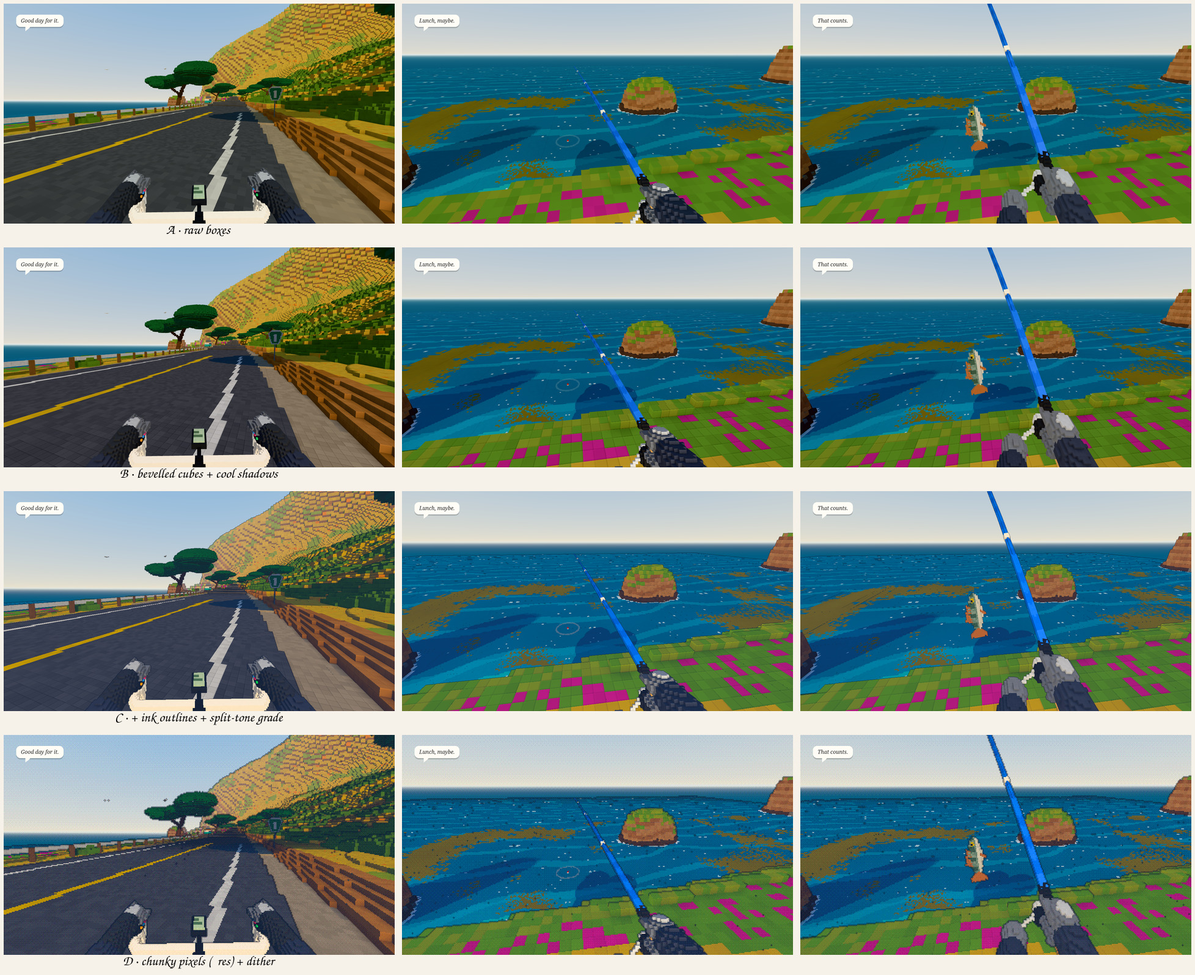
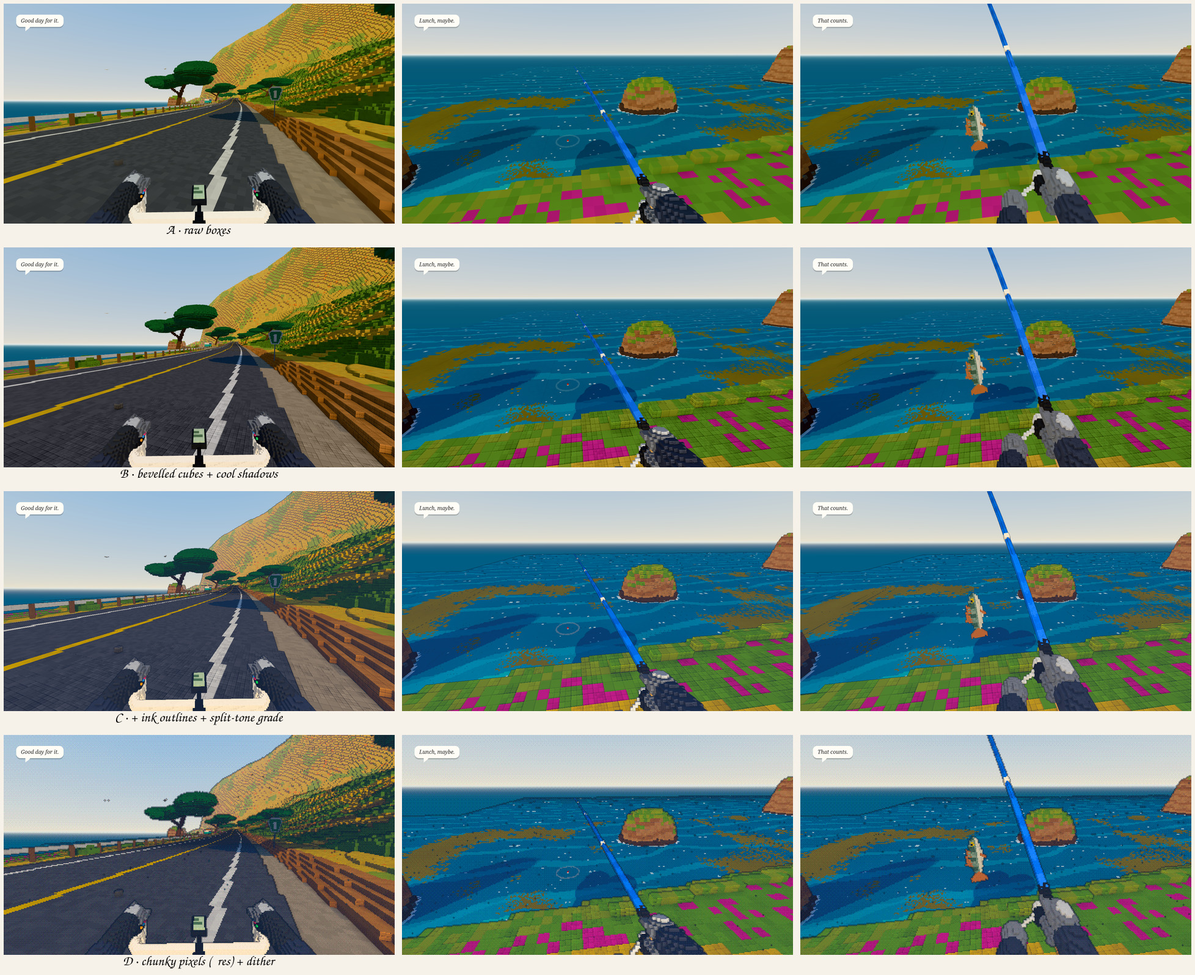
Seaside: mixed-size cubes and crumbly road steps
- Voxel shader: in patches, cubes render as 2x2 or 4x4 smaller bevelled
  cubes with their own brightness, at every LOD (fades out below ~3 px so
  it never shimmers). Breaks up the uniform grid and helps hide ring
  boundaries. ?detail=0..1 (on by default in every bevelled look).
- Road corridor: clumped noise in the height rounding so each 1/8 m step
  edge wanders a little instead of being a ruler-straight line.
- Cost is within noise headless (139 vs 141 ms at 720p).
- docs/seaside/looks: sheets re-rendered; detail-compare.png (off | on).

diff --git a/src/games/seaside/voxel/three.ts b/src/games/seaside/voxel/three.ts
@@ -31,22 +31,36 @@ export function buildGrid(grid: VoxelGrid, opts: MeshOpts, material: THREE.Mater
  * Global look switches shared by every voxel material (uniform objects, so a look can change at runtime with no rebuild).
  *   bevel: per-cube edge shading — faces read as individual blocks, even when greedy-merged (0..1)
  *   cool:  hue-shifted lighting — shadow/ambient light shifts cool, direct sun warm (0..1)
+ *   detail: mixed-size cubes — some cubes render as 2×2 or 4×4 smaller bevelled cubes (0..1), at every LOD
  */
-export const LOOK = { bevel: { value: 0 }, cool: { value: 0 } };
+const VOX_GLSL = `
+float vxHash(vec3 c) { return fract(sin(dot(c, vec3(12.9898, 78.233, 37.719))) * 43758.5453); }
+// bevel: within bw of a cube edge, tilt the shading toward that edge's outward direction (lit from above-left)
+float vxBevel(vec3 fr, vec3 n, float bw) {
+  vec3 ed = vec3(0.0);
+  for (int a = 0; a < 3; a++) {
+    if (abs(n[a]) > 0.5) continue;
+    ed[a] = fr[a] < bw ? -(1.0 - fr[a] / bw) : fr[a] > 1.0 - bw ? (1.0 - (1.0 - fr[a]) / bw) : 0.0;
+  }
+  return dot(ed, normalize(vec3(-0.35, 1.0, 0.3))) * 0.5 - length(ed) * 0.1;
+}
+`;
+
+export const LOOK = { bevel: { value: 0 }, cool: { value: 0 }, detail: { value: 0 } };
 
 /**
  * Lambert material with per-voxel brightness jitter computed in the fragment shader (hash of the voxel cell under the
  * fragment), so greedy-merged quads still read as individual cubes. Optional travelling swell for water, baked sun
  * visibility, and the LOOK bevel / cool-shadow switches. Cell maths runs in the mesh's local space (grid `origin`).
  */
-export function voxelMaterial(opts: { size: number; jitter: number; origin?: readonly number[]; /** screen-door dissolve: x = progress 0..1, y = +1 fading in / −1 fading out */ fade?: { value: THREE.Vector2 }; wave?: { time: { value: number }; amp: number }; /** geometry has a baked `sunVis` attribute scaling direct light */ baked?: boolean }): THREE.MeshLambertMaterial {
+export function voxelMaterial(opts: { size: number; jitter: number; origin?: readonly number[]; /** false = no mixed-size sub-cubes (water) */ detail?: boolean; /** screen-door dissolve: x = progress 0..1, y = +1 fading in / −1 fading out */ fade?: { value: THREE.Vector2 }; wave?: { time: { value: number }; amp: number }; /** geometry has a baked `sunVis` attribute scaling direct light */ baked?: boolean }): THREE.MeshLambertMaterial {
   const mat = new THREE.MeshLambertMaterial({ vertexColors: true });
   const o = opts.origin ?? [0, 0, 0];
   mat.onBeforeCompile = (sh) => {
     sh.uniforms.uVox = { value: opts.size };
     sh.uniforms.uJit = { value: opts.jitter };
     sh.uniforms.uOrigin = { value: new THREE.Vector3(o[0], o[1], o[2]) };
-    sh.uniforms.uBevel = LOOK.bevel; sh.uniforms.uCool = LOOK.cool;
+    sh.uniforms.uBevel = LOOK.bevel; sh.uniforms.uCool = LOOK.cool; sh.uniforms.uDetail = opts.detail === false || opts.wave ? { value: 0 } : LOOK.detail;
     if (opts.fade) sh.uniforms.uFade = opts.fade;
     if (opts.wave) sh.uniforms.uTime = opts.wave.time;
     sh.vertexShader = 'varying vec3 vVoxL;\nvarying vec3 vVoxN;\nvarying float vWave;\n' + (opts.wave ? 'uniform float uTime;\n' : '') + (opts.baked ? 'attribute float sunVis;\nvarying float vSunVis;\n' : '')
@@ -60,7 +74,7 @@ export function voxelMaterial(opts: { size: number; jitter: number; origin?: rea
     const lights = `#include <lights_fragment_end>${opts.baked ? '\n  reflectedLight.directDiffuse *= vSunVis;' : ''}
       reflectedLight.indirectDiffuse *= mix(vec3(1.0), vec3(0.74, 0.84, 1.22), uCool);
       reflectedLight.directDiffuse *= mix(vec3(1.0), vec3(1.08, 1.0, 0.88), uCool);`;
-    sh.fragmentShader = 'uniform float uVox;\nuniform float uJit;\nuniform vec3 uOrigin;\nuniform float uBevel;\nuniform float uCool;\nvarying vec3 vVoxL;\nvarying vec3 vVoxN;\nvarying float vWave;\n' + (opts.baked ? 'varying float vSunVis;\n' : '')
+    sh.fragmentShader = 'uniform float uVox;\nuniform float uJit;\nuniform vec3 uOrigin;\nuniform float uBevel;\nuniform float uCool;\nuniform float uDetail;\nvarying vec3 vVoxL;\nvarying vec3 vVoxN;\nvarying float vWave;\n' + VOX_GLSL + (opts.baked ? 'varying float vSunVis;\n' : '')
       + (opts.fade ? 'uniform vec2 uFade;\n' : '')
       + sh.fragmentShader.replace('#include <lights_fragment_end>', lights).replace('#include <clipping_planes_fragment>', opts.fade ? `#include <clipping_planes_fragment>
         { ivec2 q = ivec2(mod(floor(gl_FragCoord.xy), 4.0)); // 4×4 Bayer threshold
@@ -69,17 +83,22 @@ export function voxelMaterial(opts: { size: number; jitter: number; origin?: rea
           if (uFade.y > 0.0 ? b >= uFade.x : b < uFade.x) discard; }` : '#include <clipping_planes_fragment>').replace('#include <color_fragment>', `#include <color_fragment>
         vec3 gv = (vVoxL - uOrigin) / uVox;
         vec3 cell = floor(gv - vVoxN * 0.5);
-        float hj = fract(sin(dot(cell, vec3(12.9898, 78.233, 37.719))) * 43758.5453);
-        // bevel: within ~14% of a cube edge, tilt the shading toward that edge's outward direction (lit from above-left)
-        vec3 fr = gv - cell, ed = vec3(0.0);
-        const float BW = 0.14;
-        for (int a = 0; a < 3; a++) {
-          if (abs(vVoxN[a]) > 0.5) continue;
-          ed[a] = fr[a] < BW ? -(1.0 - fr[a] / BW) : fr[a] > 1.0 - BW ? (1.0 - (1.0 - fr[a]) / BW) : 0.0;
+        float hj = vxHash(cell);
+        float px = max(max(fwidth(gv.x), fwidth(gv.y)), fwidth(gv.z)); // voxels per pixel
+        float bev = vxBevel(gv - cell, vVoxN, 0.14) * (1.0 - smoothstep(0.08, 0.2, px));
+        // mixed-size cubes: in patches, a cube shows as 2×2 or 4×4 smaller bevelled cubes (fades when they'd be < ~3 px)
+        float sub = 0.0;
+        if (uDetail > 0.0) {
+          float pick = 0.6 * vxHash(floor(cell / 3.0) + 5.0) + 0.4 * vxHash(cell + 17.0);
+          float L = pick > 1.0 - 0.3 * uDetail ? 2.0 : pick > 1.0 - 0.7 * uDetail ? 1.0 : 0.0;
+          if (L > 0.0) {
+            float k = exp2(L);
+            vec3 gs = gv * k, sc = floor(gs - vVoxN * 0.5);
+            float vis = 1.0 - smoothstep(0.25, 0.5, px * k);
+            sub = (vxBevel(gs - sc, vVoxN, 0.22) * 1.3 + (vxHash(sc + 3.1) - 0.5) * 0.24) * vis;
+          }
         }
-        float px = max(max(fwidth(gv.x), fwidth(gv.y)), fwidth(gv.z)); // cube size on screen (voxels per pixel)
-        float bev = (dot(ed, normalize(vec3(-0.35, 1.0, 0.3))) * 0.5 - length(ed) * 0.1) * (1.0 - smoothstep(0.08, 0.2, px));
-        diffuseColor.rgb *= 1.0 + (hj * 2.0 - 1.0) * uJit + 0.09 * vWave + uBevel * bev;`);
+        diffuseColor.rgb *= 1.0 + (hj * 2.0 - 1.0) * uJit + 0.09 * vWave + uBevel * bev + uDetail * sub;`);
   };
   mat.customProgramCacheKey = () => `vox-${opts.size}-${opts.jitter}-${opts.wave ? 'w' : ''}-${opts.baked ? 'b' : ''}-${opts.fade ? 'f' : ''}`;
   return mat;

diff --git a/src/games/seaside/world/coast.ts b/src/games/seaside/world/coast.ts
@@ -2,7 +2,7 @@
 // Coordinates: metres, y up, the ride heads toward −z. Road y = 0 at z = 0.
 import { VoxelGrid } from '../voxel/grid';
 import { definePalette } from '../voxel/palette';
-import { fbm, hash2, smooth, clamp } from '../voxel/noise';
+import { fbm, hash2, noise2, smooth, clamp } from '../voxel/noise';
 
 export const COAST = definePalette({
   asphalt: 0x67686b, asphalt2: 0x646568, asphalt3: 0x6a6b6e, yellow: 0xf2c230, white: 0xf3f0e6,
@@ -154,7 +154,8 @@ export function fillTerrain(grid: VoxelGrid, reg: Region, skip: Region | null, o
       grid.set(x, seaY, z, c);
       continue;
     }
-    let top = yi(h);
+    // road steps: clumped noise in the rounding so each step edge wanders and crumbles a little instead of a ruler line
+    let top = (t === T.ROAD || t === T.GRAVEL) && opts.lines ? yi(h + (noise2(wx * 1.7, wz * 1.7, 41) - 0.5) * s * 0.55) : yi(h);
     const capped = cor?.mode === 'outside' && s > 0.25 && ad - s * 0.75 < cor.half; // coarse columns touching the road
     if (capped) top = Math.min(top, yi(roadY(wz) - 0.06) - 1);
     let lo = top;

diff --git a/src/games/seaside/render/looks.ts b/src/games/seaside/render/looks.ts
@@ -16,8 +16,8 @@ export const LOOKS: Record<string, LookPreset> = {
   fever: { label: 'G · Evening: fever dream', bevel: 1, cool: 1, post: { outline: 1, ink: new THREE.Color(0x5a0f3a), grade: 1, saturation: 1.3, bloom: 1.2, threshold: 0.5, halation: 1, dream: 1, posterize: 24, dither: 0.5 } },
 };
 
-export function applyLook(name: string): LookPreset {
+export function applyLook(name: string, detail?: number): LookPreset {
   const l = LOOKS[name] ?? LOOKS.raw;
-  LOOK.bevel.value = l.bevel; LOOK.cool.value = l.cool;
+  LOOK.bevel.value = l.bevel; LOOK.cool.value = l.cool; LOOK.detail.value = detail ?? (l.bevel > 0 ? 1 : 0);
   return l;
 }

diff --git a/dev/seaside-ride.ts b/dev/seaside-ride.ts
@@ -21,7 +21,7 @@ const knobs = { routeLod: num('routelod'), hyst: num('hyst'), fade: num('fade'),
 const ride = createRide(canvas, W, H, knobs);
 ride.stage.camera.aspect = W / H; ride.stage.camera.updateProjectionMatrix();
 const buildMs = Math.round(performance.now() - t0);
-const look = applyLook(q.get('look') ?? 'raw');
+const look = applyLook(q.get('look') ?? 'raw', q.get('detail') !== null ? Number(q.get('detail')) : undefined); // ?detail=0..1 mixed-size cubes
 const post = look.post ? new PostFX(ride.stage.renderer, W, H) : null;
 if (post) {
   Object.assign(post.p, look.post);

diff --git a/src/games/seaside/NOTES.md b/src/games/seaside/NOTES.md
@@ -34,7 +34,7 @@ Render: `npx tsx scripts/seaside-stills.ts [highway turnout shop lou]`; live: `/
   when all its tiles are ready (no holes); positions ahead on the route are prefetched. Visible tiles merge into 2×2
   clusters; props merge into 48 m clusters (`buildClusteredMeshes`). 125 ms → 133 ms render, 565 → 94 draw calls.
 ## Looks (`render/looks.ts`, `render/post.ts`) — `?look=raw|crafted|illustrated|pixel|morning|midday|fever`
-- Material: per-cube bevels (fade below ~8 px/cube) + cool ambient / warm sun (`LOOK` uniforms). Post: ink outlines
+- Material: per-cube bevels, mixed-size sub-cubes (`?detail=`, 2×2/4×4 in patches), cool ambient / warm sun (`LOOK`). Post: ink outlines
   (depth silhouettes + 1/depth creases), split-tone grade, posterize + Bayer dither, low-res pixels, bloom/halation,
   and a `dream` dial (vignette, hue drift, chromatic fringe, wobble). Sheets: `npx tsx scripts/seaside-looks.ts`.
 - Not yet: sim/game module, audio, scenarios; nothing in `src/games/registry.ts`.
